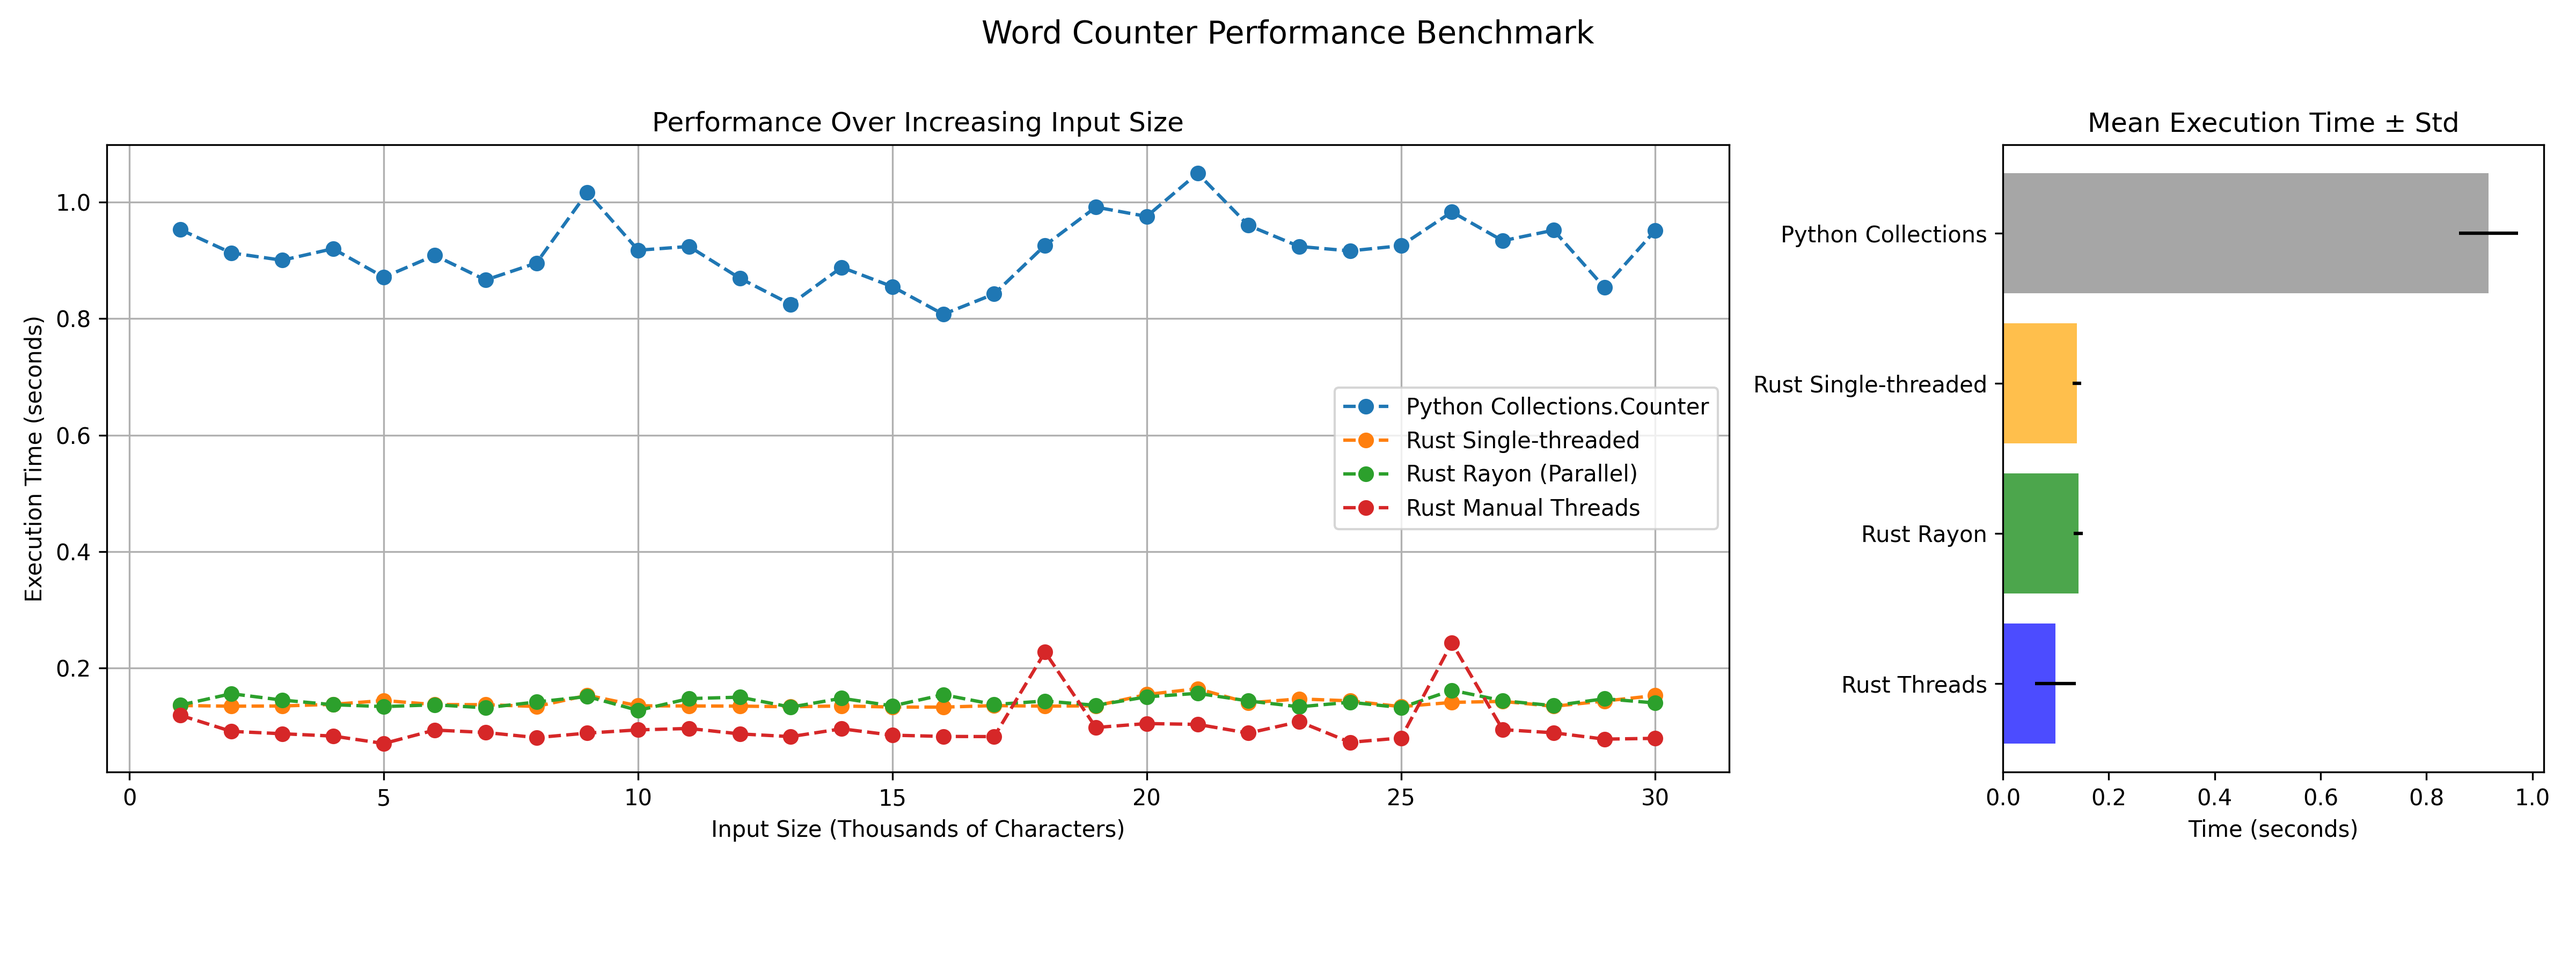
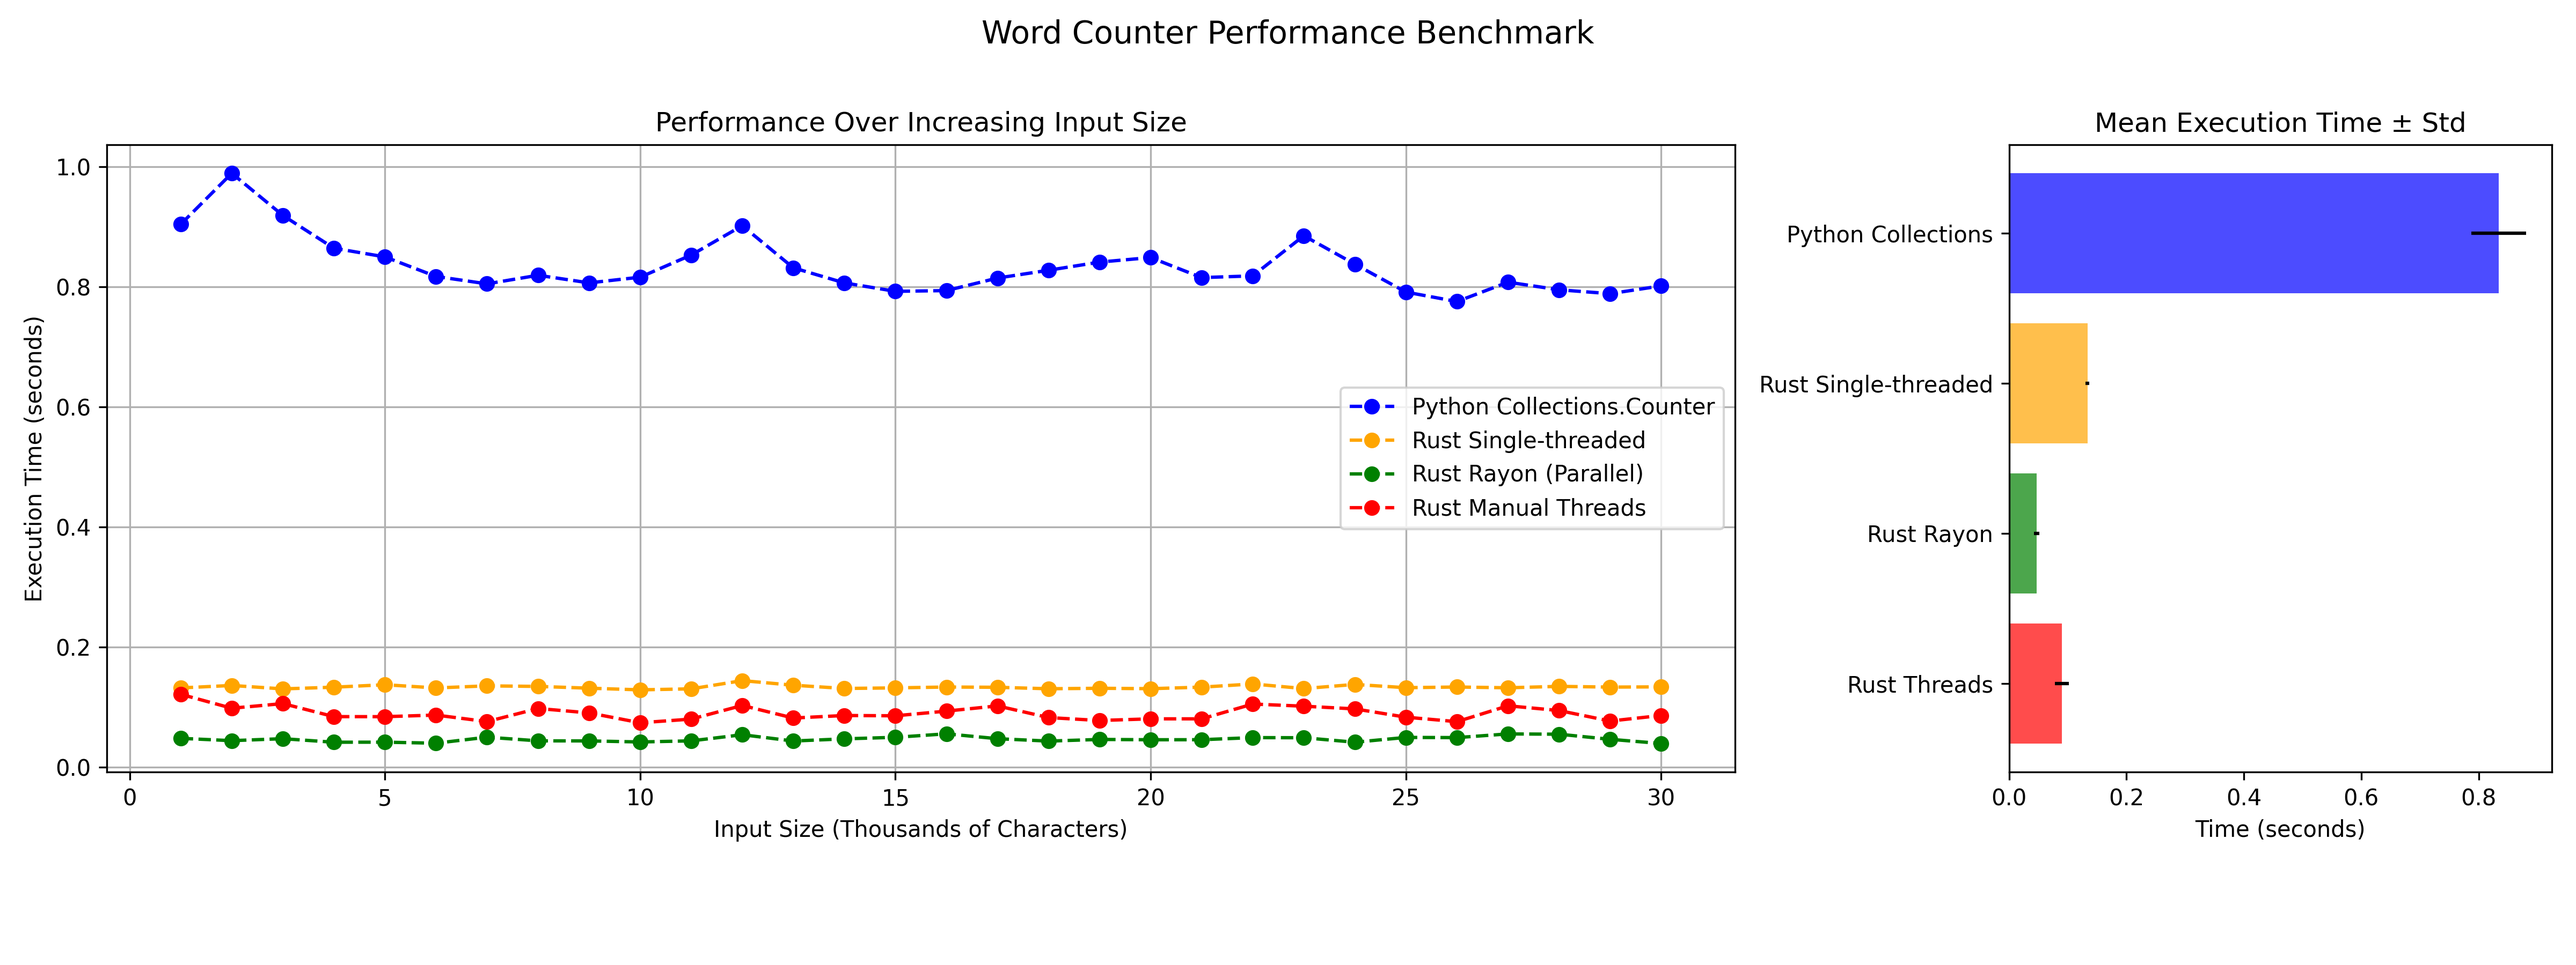
Better style2

diff --git a/main.py b/main.py
@@ -39,6 +39,7 @@ for i in range(1, 31):
     list_collection.append(pref1(collections.Counter, text))
 
 # Prepare benchmark data
+colors = ["blue", "orange", "green", "red"]
 langs = ["Python Collections", "Rust Single-threaded", "Rust Rayon", "Rust Threads"]
 d = dict(zip(langs, [list_collection, list_rust, list_par, list_threads]))
 df = pd.DataFrame(d)
@@ -51,11 +52,37 @@ fig, axs = plt.subplots(1, 2, figsize=(16, 6), gridspec_kw={"width_ratios": [3, 
 
 # --- Left: Line Plot for Performance ---
 axs[0].plot(
-    x, list_collection, label="Python Collections.Counter", linestyle="--", marker="o"
+    x,
+    list_collection,
+    label="Python Collections.Counter",
+    color=colors[0],
+    linestyle="--",
+    marker="o",
 )
-axs[0].plot(x, list_rust, label="Rust Single-threaded", linestyle="--", marker="o")
-axs[0].plot(x, list_par, label="Rust Rayon (Parallel)", linestyle="--", marker="o")
-axs[0].plot(x, list_threads, label="Rust Manual Threads", linestyle="--", marker="o")
+axs[0].plot(
+    x,
+    list_rust,
+    label="Rust Single-threaded",
+    color=colors[1],
+    linestyle="--",
+    marker="o",
+)
+axs[0].plot(
+    x,
+    list_par,
+    label="Rust Rayon (Parallel)",
+    color=colors[2],
+    linestyle="--",
+    marker="o",
+)
+axs[0].plot(
+    x,
+    list_threads,
+    label="Rust Manual Threads",
+    color=colors[3],
+    linestyle="--",
+    marker="o",
+)
 
 axs[0].set_title("Performance Over Increasing Input Size")
 axs[0].set_xlabel("Input Size (Thousands of Characters)")
@@ -67,9 +94,7 @@ axs[0].grid(True)
 means = df.mean()
 stds = df.std()
 
-axs[1].barh(
-    langs, means, xerr=stds, color=["gray", "orange", "green", "blue"], alpha=0.7
-)
+axs[1].barh(langs, means, xerr=stds, color=colors, alpha=0.7)
 axs[1].set_title("Mean Execution Time ± Std")
 axs[1].set_xlabel("Time (seconds)")
 axs[1].invert_yaxis()  # To match legend order

diff --git a/src/lib.rs b/src/lib.rs
@@ -16,17 +16,15 @@ fn counter<'a>(inp: &'a str) -> HashMap<&'a str, usize> {
 
 #[pyfunction]
 fn par_counter<'a>(inp: &'a str) -> HashMap<&'a str, usize> {
-    inp
-        .split_ascii_whitespace()
-        .collect::<Vec<_>>()
-        .par_iter()
-        .fold(HashMap::new, |mut acc, &item| {
-            *acc.entry(item).or_insert(0) += 1;
+        inp
+        .par_split_whitespace()
+        .fold(HashMap::new, |mut acc, word| {
+            *acc.entry(word).or_insert(0) += 1;
             acc
         })
-        .reduce(HashMap::new, |mut acc, item| {
-            for (key, value) in item {
-                *acc.entry(key).or_insert(0) += value;
+        .reduce(HashMap::new, |mut acc, map| {
+            for (k, v) in map {
+                *acc.entry(k).or_insert(0) += v;
             }
             acc
         })
